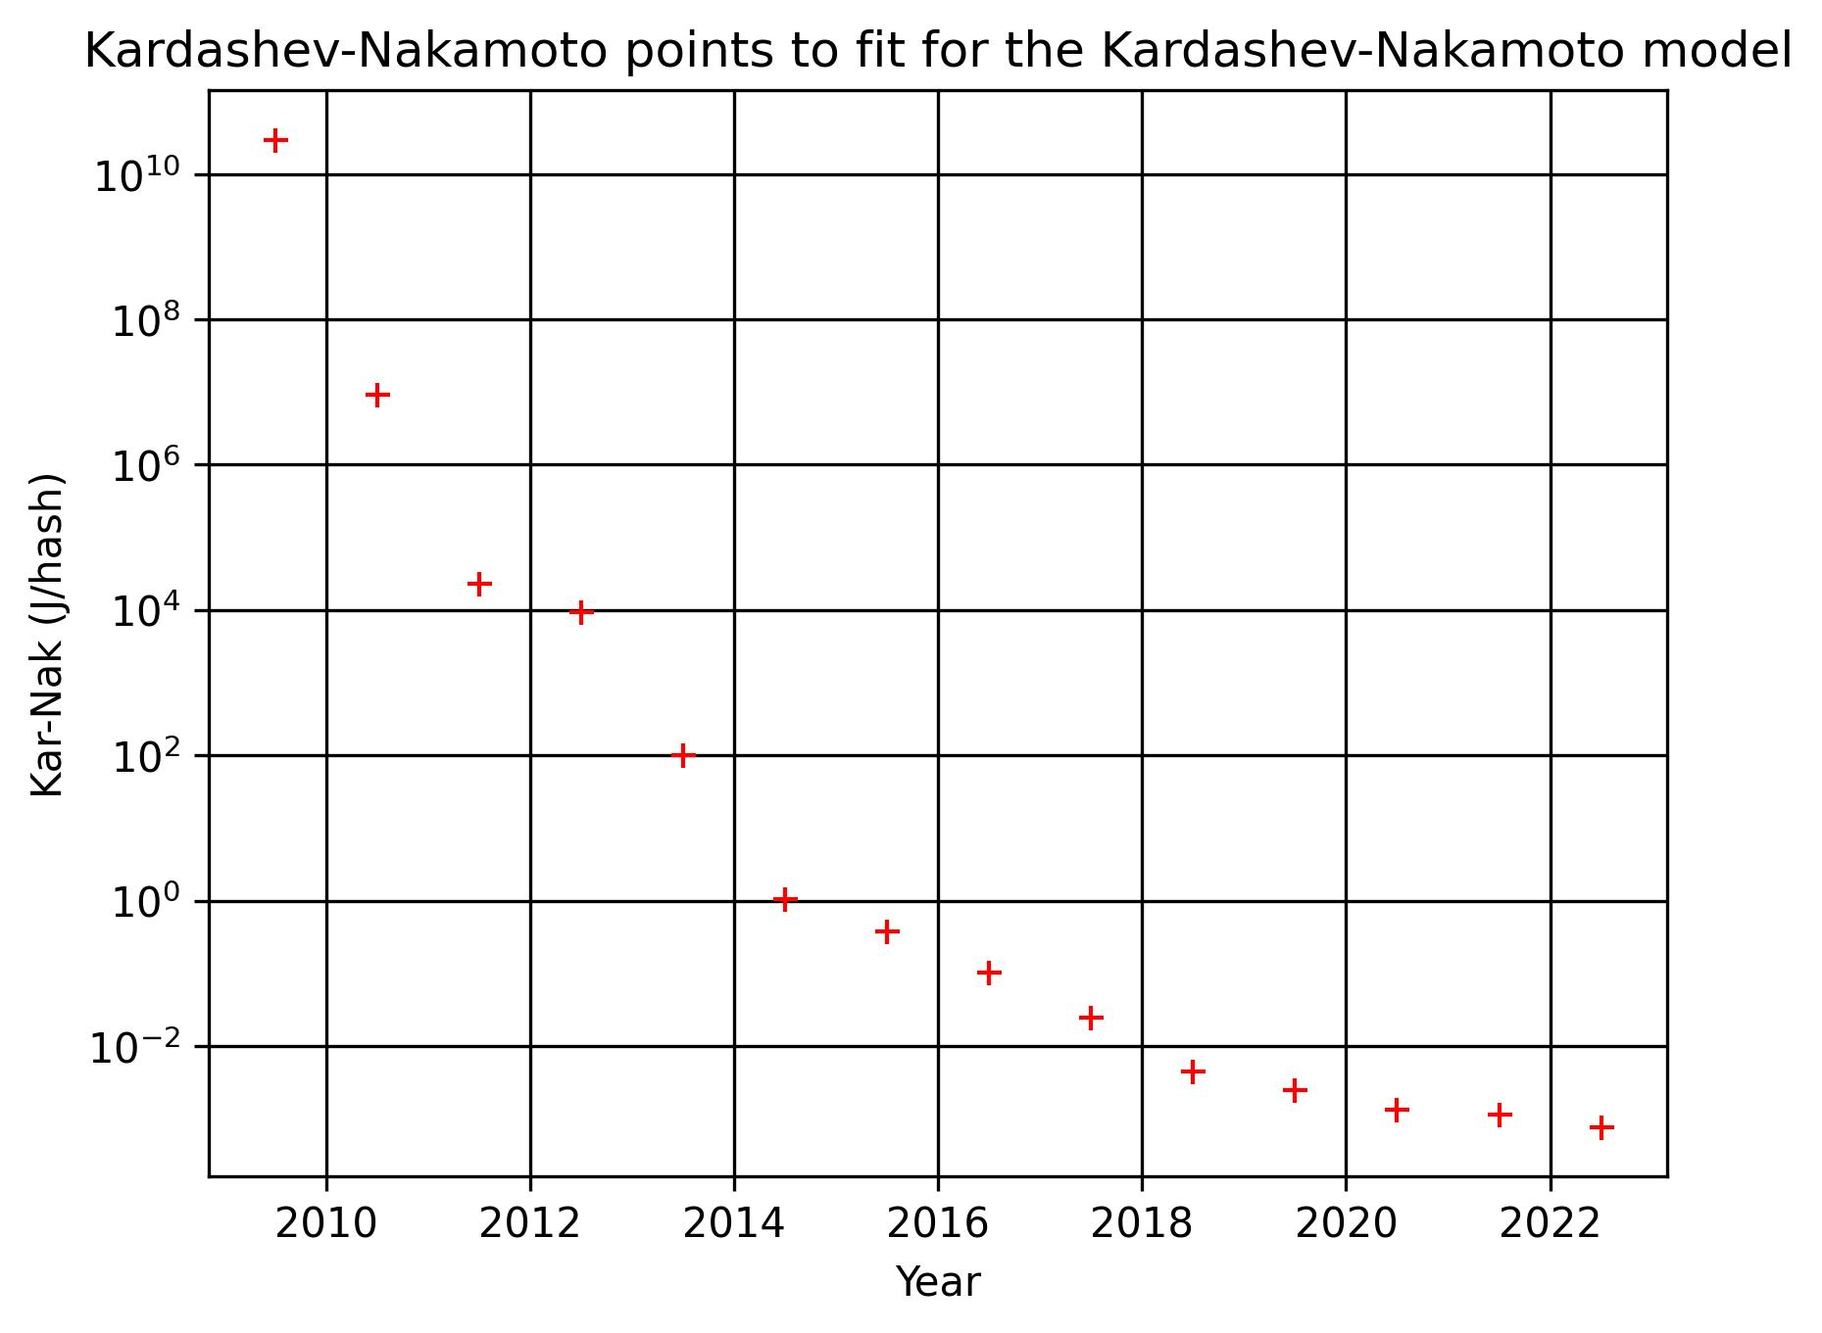
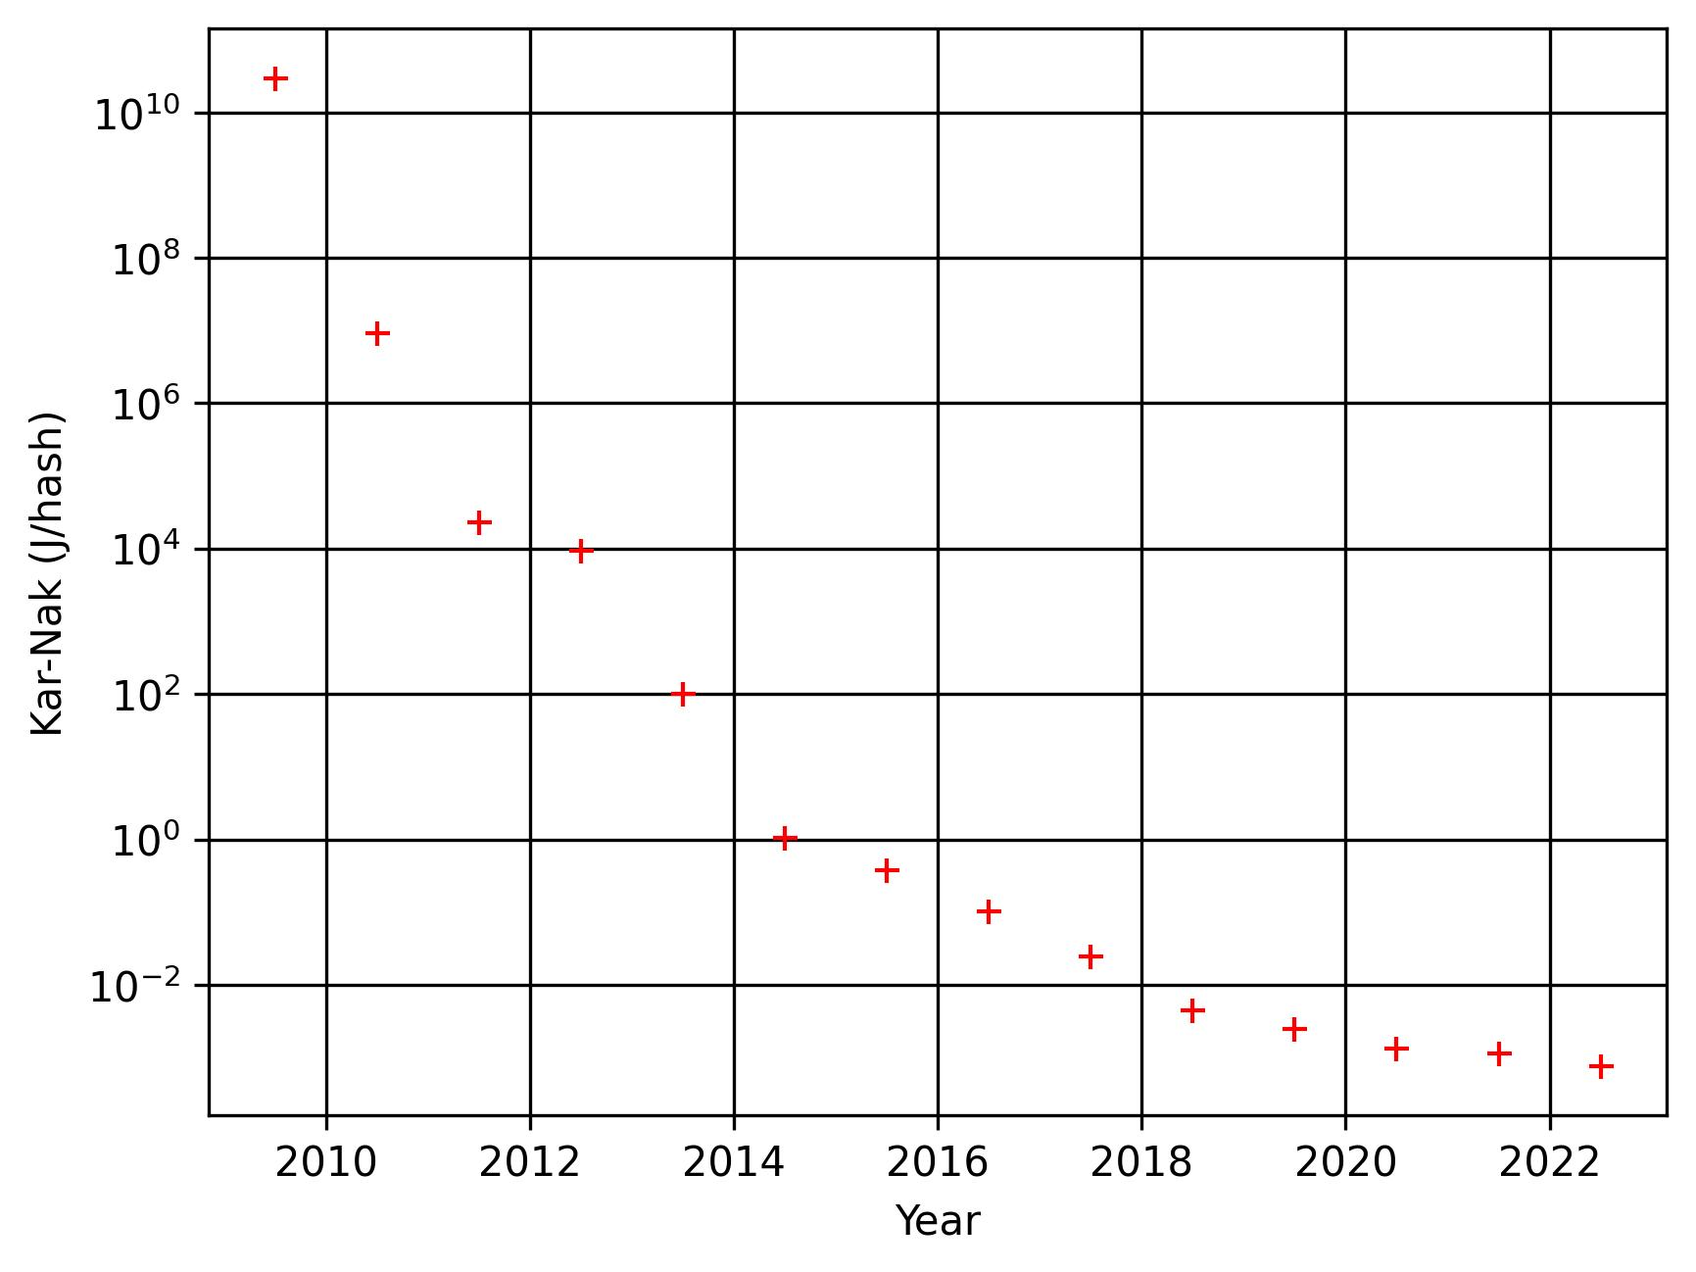
Updates from Overleaf

Changed region(s): [[0.0, 0.0, 0.9983, 0.9861], [0.9671, 0.4006, 0.9983, 0.4622], [0.5303, 0.7088, 0.5927, 0.7396]]

diff --git a/astroblock.tex b/astroblock.tex
@@ -58,7 +58,7 @@
 
 \begin{abstract}
 
-The Kardashev conjecture or hypothetical astrophysical law is one of energy consumption versus time (or Power VS Time) for radio-capable civilizations that sets the Kardashev scale. We take global human power production data from 1964 to 2022 that we compare to two Kardashev models: The standard Kardashev model or "one-percent" per year monotonically increasing model that is approximately exponential and; the ordinary least squares fit linear data-model. The two competing models have significantly different statistical properties. The OLS linear data-model has a slope and intercept of $5.78 \pm 0.09$ TW per day and $-1.40  \pm 0.02 \times 10^{7} $ TW, and the data-fit even by visual inspection is uncanny! However, perhaps more surprisingly is the fact that the standard model by its nature diverges from the data! The dimensional variables of power and time have time covariance and may naturally require further restriction; nothwithstanding this and against a Julian Day baseline as selected, we show the linear data-model with its low dispersion across nearly two orders of magnitude in years, that transcends several technological and political eras of modern energy production from coal, oil, nuclear to renuables (hydro, wind, geothermal, solar etc.) has a Negative Log-Likelihood significantly smaller for the same number of parameters as has the standard model that diverges from the data. Our hypothesis is: the OLS data-model has \textbf{memory} unlike the \textbf{memoryless} standard model. The cause of the divergence of the standard model from the data occurs because negative year-over-year growth is precluded for this model, critically underestimating the time lapse required for a typical radio capable civilization to evolve to a Kard$\,_{\textrm{type-ii}}$ on the original scale, to "$4 \times 10^{33}$ erg/s" or about $4 \times 10^{26}$ J/s or equal to the bolemtric power of a dwarf main sequence star like The Sun. Consequently, in lieu of the result: that the original Kardashev standard model is not tenable and to resolve the conundrum of the linear data-model prediction; that radio-nascent civilizations on average may require more than a Hubble time to evolve to a Kard$\,_{\textrm{type-ii}}$ one; is that we propose the Kardashev-Nakamoto model by renormalizing the Power Production metric (in units: J/s) by the Scalar Bitcoin Hash-Rate function year average (in units: Hash/s). The equivalence unit Kar-Nak of dimension J/Hash that results satisfies Kardashev's insight to condition the Kardashev relation to account for information richness without requiring additional parameters. Since the Bitcoin hash-rate is not a monotonically increasing function, with a two-week difficulty adjustment, the memory probability conservation property constraint for the underlying distribution is guaranteed, thus we speculate on a prediction: if the Kardashev-Nakamoto model reflects physical reality, a handle on the Drake equation's longevity term for 'advanced' civilizations could also be better modeled, as well as the prediction of the Doomsday clock and the Fermi paradox. The new Kardashev-Nakamoto straw-person model and scale, if approximately true, provides a somewhat theoretical basis of an interoperability development driver for Astronomy \& Astrophysics; Education, Research and Development, based on Public Open Blockchain Ledger technology. A caveat to this analysis: The power metric used in this analysis is not derived from the "global yearly average total energy consumed" but from the "global yearly average total energy produced"; therefore, production is an upper limit proxy to consumption in the new Kardashev-Nakamoto model whose fit is not attempted but left an open question proposed by this paper. 
+The Kardashev conjecture or hypothetical astrophysical law is one of energy consumption versus time (or Power VS Time) for radio-capable civilizations that sets the Kardashev scale. We take global human power production data from 1964 to 2022 and compare data with two Kardashev models: The standard Kardashev model or "one-percent" per year monotonically increasing model that is approximately exponential and; the ordinary least squares fit linear data-model. The two competing models have significantly different statistical properties. The OLS linear data-model has a slope and intercept of $5.78 \pm 0.09$ TW per day and $-1.40  \pm 0.02 \times 10^{7} $ TW, and the data-fit even by visual inspection is uncanny! However, perhaps more surprisingly is the fact that the standard model by its nature diverges from the data! The dimensional variables of power and time have time covariance and may naturally require further restriction; nothwithstanding this and against a Julian Day baseline as selected, we show the linear data-model with its low dispersion across nearly two orders of magnitude in years, that transcends several technological and political eras of modern energy production from coal, oil, nuclear to renuables (hydro, wind, geothermal, solar etc.) has a Negative Log-Likelihood significantly smaller for the same number of parameters as has the standard model that diverges from the data. Our hypothesis is: the OLS data-model has \textbf{memory} unlike the \textbf{memoryless} standard model. The cause of the divergence of the standard model from the data occurs because negative year-over-year growth is precluded for this model, critically underestimating the time lapse required for a typical radio capable civilization to evolve to a Kard$\,_{\textrm{type-ii}}$ on the original scale, to "$4 \times 10^{33}$ erg/s" or about $4 \times 10^{26}$ J/s or equal to the bolemtric power of a dwarf main sequence star like The Sun. Consequently, in lieu of the result: that the original Kardashev standard model is not tenable and to resolve the conundrum of the linear data-model prediction; that radio-nascent civilizations on average may require more than a Hubble time to evolve to a Kard$\,_{\textrm{type-ii}}$ one; is that we propose the Kardashev-Nakamoto model by renormalizing the Power Production metric (in units: J/s) by the Scalar Bitcoin Hash-Rate function year average (in units: Hash/s). The equivalence unit Kar-Nak of dimension J/Hash that results satisfies Kardashev's insight to condition the Kardashev relation to account for information richness without requiring additional parameters. Since the Bitcoin hash-rate is not a monotonically increasing function, with a two-week difficulty adjustment, the memory probability conservation property constraint for the underlying distribution is guaranteed, thus we speculate on a prediction: if the Kardashev-Nakamoto model reflects physical reality, a handle on the Drake equation's longevity term for 'advanced' civilizations could also be better modeled, as well as the prediction of the Doomsday clock and the Fermi paradox. The new Kardashev-Nakamoto straw-person model and scale, if approximately true, provides a somewhat theoretical basis of an interoperability development driver for Astronomy \& Astrophysics; Education, Research and Development, based on Public Open Blockchain Ledger technology. A caveat to this analysis: The power metric used in this analysis is not derived from the "global yearly average total energy consumed" but from the "global yearly average total energy produced"; therefore, production is an upper limit proxy to consumption in the new Kardashev-Nakamoto model whose fit is not attempted but left an open question proposed by this paper. 
 
 %Open development metrics eg: Public Lectures by Astronomers from vetted institutions or number of telescope open-nights, H-index, GitHub code-pull/commits, N-body compute capability and usage, you-tube views, etc, graduate student number, could be used to constrain and engineering tokenomics to form the basis of protocol standards. Success of any protocol can be measured by the widespread use so a broad base of research in Astronomy but focus initially might be skewed to  public universities that confer astronomical PhD degrees, astronomical facility personal and the open development community in Astronomy. 
 %Any alternative successful Blockchain based model for the Open Development of Astropny is more likely to be based on the  Nakamoto 2008, Bitcoin protocol, (see whitepaper and standards  defined therein) as well as by other network Blockchains that may be more complex. Protocols identified also broadly fall within the Decentralized Finance Movement (DEFI), since funding for Open Development via liquidity pools through grants could be effective. The DEFI movement has been analyzed in other works (REF) to show evidence of being a potential disruptor agent, to several industries including central bank/government issuance of FIAT currency. If the so-called 'sound money' proposition preported by DEFI advocates holds true and FIAT issuance is becoming debased, as shown by some studies, and access to funds for development of Astronomy in some regions also becomes more difficult then community `agreed' Open Development metrics could be used to help the alternate and complimentary funding mechanism of Open Development, based on DEFI liquidity to drive Astronomy, \textbf{our model assumption}. The antithesis that DEFI is a front-running industry that does not have much future for Open Development from which it was born and is not part of a future open protocol stack, a key open-ended question of this study. 
@@ -499,7 +499,7 @@ No initial coin offering is necessary as this could be deemed a security and may
 
 \begin{figure}
     \centering
-    \includegraphics[width=0.35\textwidth]{figs/figkarnak.jpg}
+    \includegraphics[width=0.50\textwidth]{figs/figkarnak.jpg}
     \caption{Kardashev-Nakamoto data-points for the Kardashev-Nakamoto model}
     \label{fig:karnak}
 
@@ -551,19 +551,19 @@ Liquidity pools for Astronomers , Travel Conferences, Observing, Teaching, these
 
 Over the time-scale of 3-5 years incidentally about the time it takes a new astronomy major to complete a PhD, Bitcoin and perhaps some other OB like Ethereum have stood-up to their promise hold store of value properties. Bitcoin was born after the 2008 sub-prime morgage backed security and credit default swap crisis when the worlds largest banks and insurers were called to account since they were instrumental in the greatest financial crisis since the great depression of 1930's and had to be bailed out to prevent global contagion effect.
  
-For the astronomical community in Argentina a similar debt crisis has put the Argentina Gemini membership under threat since in 2020 a consortium decided on behalf of Argentina to offer partial withdraw. A situation that unfolded since only a small fraction of the funds required by the Gemini consortia on behalf of Argentina for 2019 were paid by the previous government and similarly astronomers wages and subsidies perceived to be undervalued. Unfortunately the news for science in general was not great since the Ministry of Science was disbanded and funding to host international conferences in 2019 were unavailable. Although the new government did fund a new Ministry for Science, and Blockchain technology is considered a strategic area, there is not much OB development from CONICET. If adequate funding is not forthcoming these types of crisis like is likely to be the case for other countries with large USD dinominated debts cause more difficulty in the educational scientific and technological ecosystems that may include new brain drain waves for young-scientists leading to a spill-over exacerbated and undesirable effect as talent settles overseas. 
+For the astronomical community in Argentina a similar debt crisis has put the Argentina Gemini membership under threat since in 2020 a consortium decided on behalf of Argentina to offer partial withdraw. A situation that unfolded since only a small fraction of the funds required by the Gemini consortia on behalf of Argentina for 2019 were paid by the previous government and similarly astronomers wages and subsidies perceived to be undervalued. Unfortunately the news for science in general was not great since the Ministry of Science was disbanded and funding to host international conferences in 2019 were unavailable. Although the new government did fund a new Ministry for Science, and Blockchain technology is considered a strategic area, there is not much OB development from CONICET. In 2023 the ministry of science was scrapped by the Milie government who said publicly he would freeze real wage growth of Scientist, Teachers and public servants, in Argentina. If adequate funding is not forthcoming these types of crises are likely to continue any other countries expecially with a large USD dinominated debt, perhaps barring EEUU for obvious reasons. These difficulties for educational, scientific and technological ecosystems appears to include drain waves for young-scientists into other more centralized industries like the financial industry and is leading to a spill-over exacerbated and undesirable effect as talent settles overseas. In the Institute of Astronia Teorica and Experimental in Argentina a reduction of at least $\sim$ 20\% of scientist and engineers appear likely to leave public service at that institution in the next year.
 
-This dire context above was contracted in complicity with loan requirements, exerted by the International Monetary Fund through loan obligations and/or conditioning that prioritized a creditor bonanza scheme based on a 70\% bank lending rate set by the PRO party coalition led by the ex-president of Paradise Paper's acclaim that ran a coalition government to full-term. 
+This dire context above was contracted in com0plicity with loan requirements, exerted by the International Monetary Fund through loan obligations and/or conditioning that prioritized a creditor bonanza scheme based on a 70\% bank lending rate set by the PRO party coalition led by the ex-president of Paradise Paper's acclaim that ran a coalition government to full-term that appear to have deceived the electorate in the campaign of the Milei-Macri 2024 government. #reference required
 
-Underlying this debt ridden situation, is a loaming world recession within a COVID-19 pandemic context with the cancellation of international Astronomical conferences, workshops and other meetings is taking place at a global scale: IVOA was forced to change the meeting mode and since the May Sydney Interop until 2023 all meetings have been virtual, and  in Argentina the Observatory Astronomical of Cordoba (circa 1873) one of the first national scientific institutions with the Instituto de Astronomia Teorica y Experimental announced the suspension of the 2021 Friends of Friends workshop. 
+Underlying this debt ridden situation, is a loaming world recession within a post COVID-19 pandemic context with the cancellation of international Astronomical conferences, workshops and other meetings is taking place at a global scale: IVOA like many other international forums were forced to change the meeting mode and since the May Sydney Interop until 2023 all meetings have been virtual, and in Argentina the Observatory Astronomical of Cordoba (circa 1873) one of the first national scientific institutions with the Instituto de Astronomia Teorica y Experimental announced the suspension of the 2021 Friends of Friends workshop, can the Nakamoto-Kardashev relation help in this respect remains and open question.  
 
-It is argued that the current crisis, like the last major one that affected the research capacity of scientists to conduct their work in Argentina was the 2001 economic crisis, when Argentina paid for being the "poster child of the IMF" with the greatest default in history and before that, when the Argentina Scientific output capacity was being determined down the barrel of a gun by the military junta and some home-grown scientists that would probably prefer to stay unnamed that seemingly justified this collateral damage \cite{levato1976}
+It is argued that the current crisis, like the last major one that affected the research capacity of scientists to conduct their work in Argentina was the 2001 economic crisis, when Argentina paid for being the "poster child of the IMF" with the greatest default in history and before that, when the Argentina Scientific output capacity was being determined down the barrel of a gun by the military junta and some home-grown scientists that would probably prefer to stay unnamed that seemingly justified this collateral damage \cite{levato1976}.
 
-The half-life rate of Astronomy majors from US public universities has been in steep free-fall,  \cite{milo_2018}. In fact as explained earlier this is the case in Australia too and other nation states. A recent tween by 2012 Nobel Laureate Brian Scmidt, the Chair of the group of 8 of Australia's  leading research-intensive universities makes reference to this dire situation in an article in the \href{https://t.co/RUEENvowqw}{Financial Times}, Blockchain tokenomics could be a solution.  At the same time, government spending in the military industrial complex, banks, insurer and corporate bail-outs are at an all time high so as scientist it could be argued that it is our responsibility to add checks and balances with recognizably proven community technology. 
+This is not unique to Argentina. The half-life rate of Astronomy majors from US public universities has been in steep free-fall,  \cite{milo_2018}. In fact as explained earlier this is the case in Australia too and other nation states. A tweet in 2023 by 2012 Nobel Laureate Brian Scmidt, the Chair of the group of 8 of Australia's  leading research-intensive universities makes reference to this dire situation in an article in the \href{https://t.co/RUEENvowqw}{Financial Times}, and so it is here argued that Blockchain tokenomics could be a solution.  At the same time, government spending in the military industrial complex, banks, insurers, and corporate bail-outs are at an all time high, so as scientist it could be argued that it is our responsibility to add checks and balances with recognizably proven community technology and a model. 
 %
-If such a model exists it is certain that data Feeds protocols will become an important part to allow to mitigate mistakes from central actors since the system must be largely transparent yet private when it needs to be. Our model would use Zero Knowledge Proofs and other Blockchain primitives to safe-guard privacy of information of the individual yet also compensate or incentives the brave. 
+If such a model exists it is certain that data-feed protocols will become an important part to allow one to mitigate mistakes from central actors since the system must be largely transparent yet private when it needs to be to protect for example personal information. The model could use Zero Knowledge Proofs and other Blockchain primitives to safe-guard privacy of information of the individual yet also provide incentives that are safe-guarded by the bitcoin Network. 
    
-The identification of elements or properties for the programmatic `tokenization' of an open development protocols for astronomy should not be influenced by any one central authority nor by extraneous factors affecting the wider political economy but should be decided by the community and based heavily on open source and open development paradigm. 
+The identification of elements or properties for the programmatic `tokenization' of an open development protocols for astronomy should not be influenced by any one central authority nor by extraneous factors affecting the wider political economy but should be decided by the community and based heavily on open source and the open development paradigm. 
    
 In section \ref{sec:intro} we stated the motive and underlying potential of applying open development technology to astronomy. We detail with warp speed some crytographic primitives (Has functions, Merkle roots) and some basic protocols to establish a general model frame-work of Tokenomics, including staking or yield-farming incentive mechanics, time and value locked development fund release functions, and also discuss the implications of governance, etc,
 
